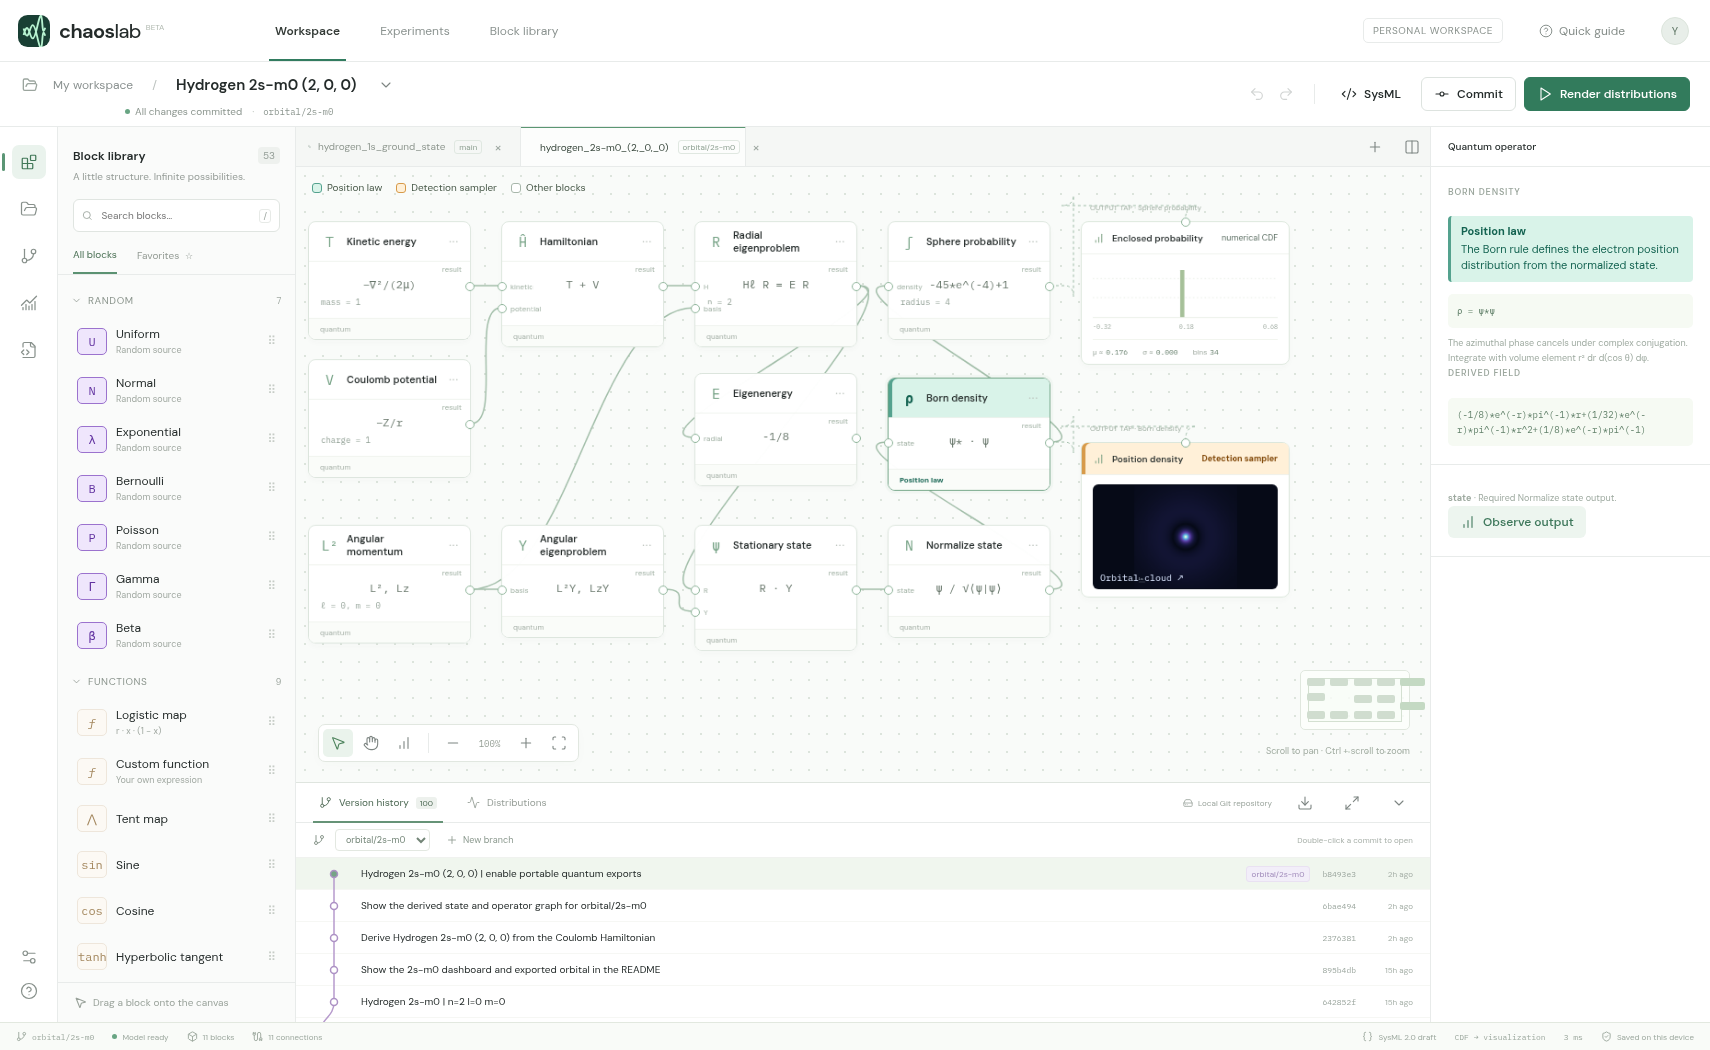
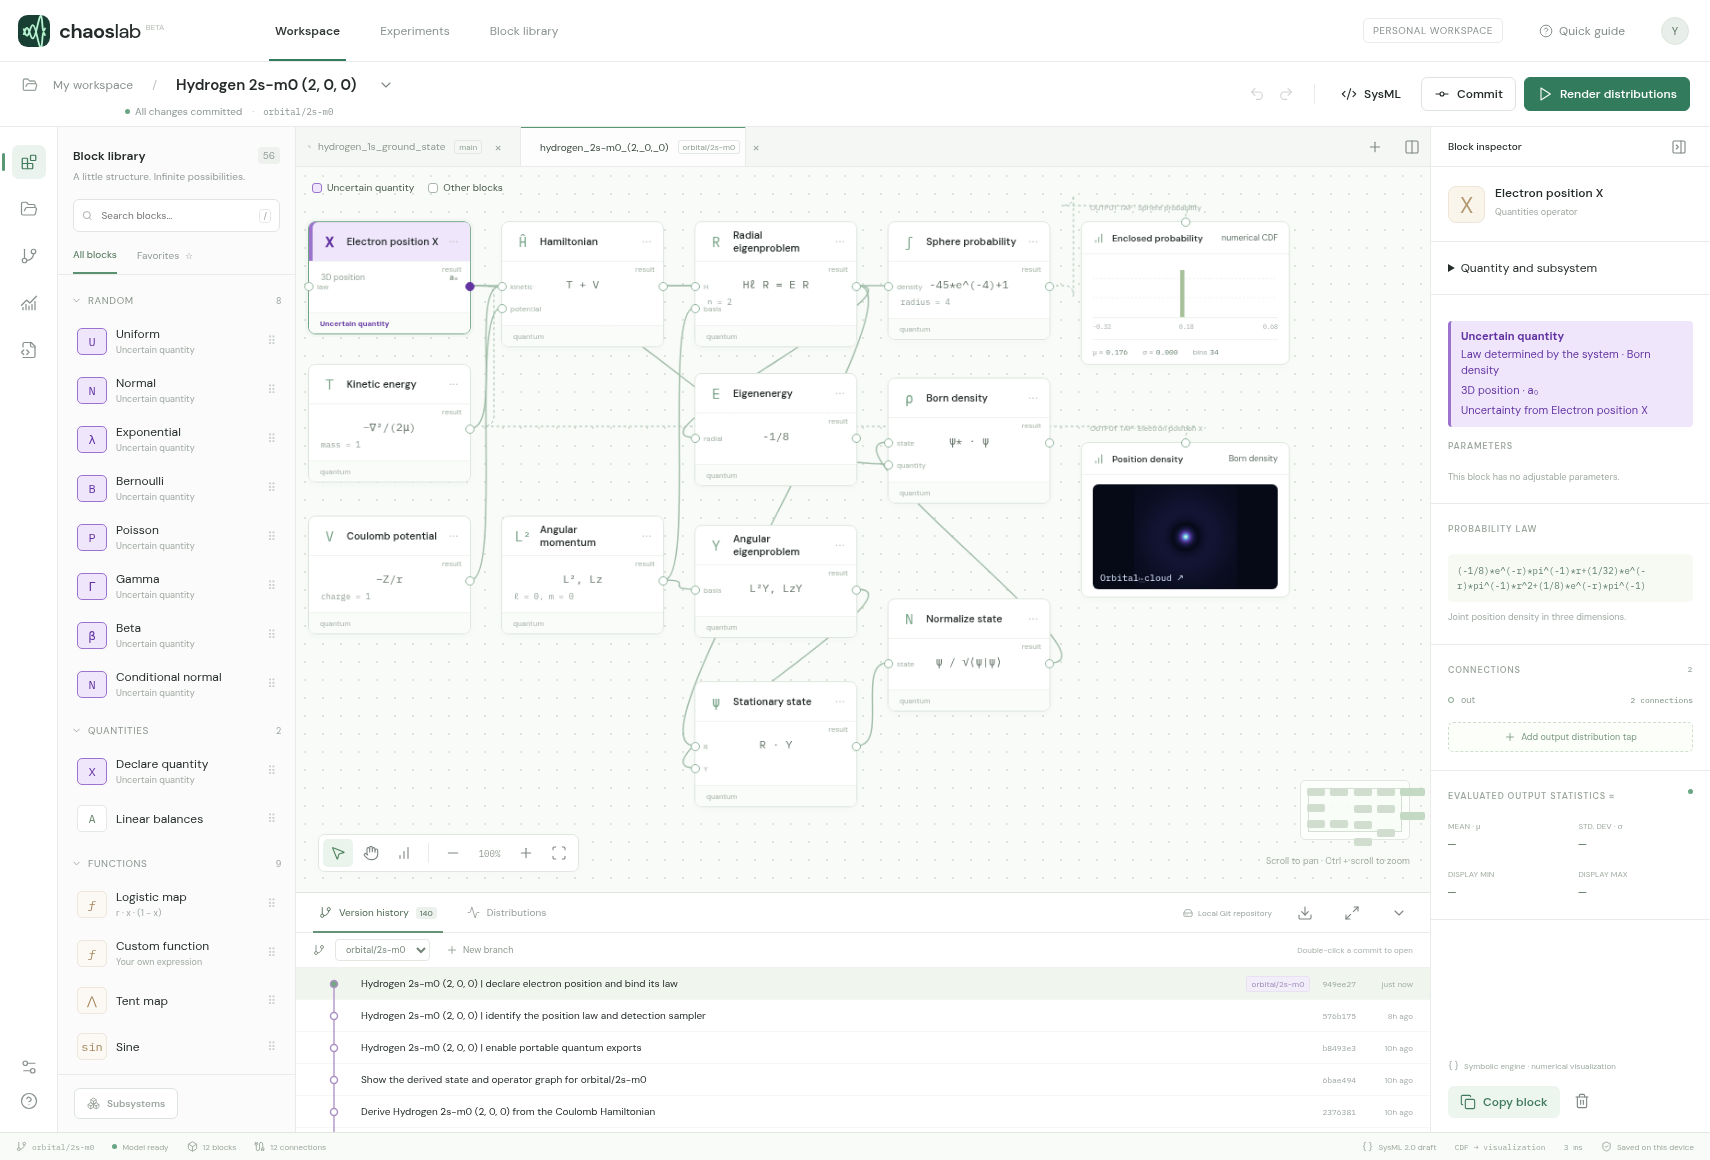
Show the position declaration and its law provider for orbital/2s-m0

diff --git a/studio.py b/studio.py
@@ -10,7 +10,7 @@ import tempfile
 import webbrowser
 
 ROOT = Path(__file__).resolve().parent
-STUDIO_REV = "5cbb600c6ee5baa24d159ddc6c974d68eb68f653"
+STUDIO_REV = "515ba96842af71b90f41019a508548a96e802665"
 STUDIO_REPO = "https://github.com/wa200508/chaos_lab.git"
 
 

diff --git a/README.md b/README.md
@@ -6,7 +6,7 @@ Open **Version history** in Chaos Lab to explore the 20 hydrogen designs in this
 
 The connected Hamiltonian and eigenstate solvers give $E=-1/8$ Hartree for this state.
 
-The purple **Electron position X** block declares the three-dimensional quantity in Bohr radii. Open its inspector to see **Born density** as its law provider. The sphere measurement and spatial tap both observe X. Projected detections draw from the final law; the central slice evaluates the density directly.
+The purple **Electron position X** block declares the three-dimensional quantity in Bohr radii. Open its inspector to see **Born density** as its law provider. The sphere measurement and spatial tap both observe X. Projected detections draw from the final law. The central slice evaluates the density directly.
 
 ![Chaos Lab dashboard with the 2s model, m = 0, open in version history](dashboard.png)
 
